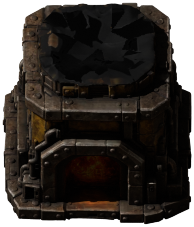
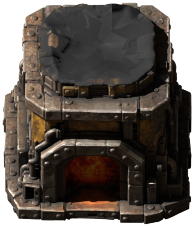
Updated sprites
Re-rendered sprites to be brighter. Uses new icon for item, technology, recipe.

diff --git a/README.md b/README.md
@@ -1,78 +1,26 @@
 # WePlay: Junk Cannon
 
-**Everything must go!** An early-game Factorio defense that turns your trash into ammo.
-
-![WePlay: Junk Cannon](thumbnail.png)
-
-The Junk Cannon is a burner furnace with a big cannon bolted on top. Feed it fuel and junk, and it bakes the junk into shells and fires them at any enemies in range. It's unlocked from the start, so it covers you before you've set up proper ammo production.
-
-**[Download on the Factorio Mod Portal](https://mods.factorio.com/mod/WePlayJunkCannon)**
-
-## Features
-
-- **Unlocked from the start.** Recipe: 8 iron plates, 4 iron gears, 1 stone furnace.
-- **Eats (almost) anything.** Every item from every mod can become a shell: ore, stone, spare belts, old buildings, leftover intermediates...
-- **Burner powered.** Burns coal, wood, solid fuel or any other chemical fuel.
-- **Fuel stays fuel.** Fuel only goes in the burner slot and is never baked into shells, so a mixed chest or belt feeds the cannon properly. Turn on **Fuel can be used as junk** in the startup settings if you want to shoot your fuel too.
-- **Keeps a stockpile.** Stores up to 10 shells, plus one loaded in the cannon. When it's full, the furnace stops with "Output full". Shells that are already baked still fire after the fuel runs out.
-- **Shells stay in the cannon.** Junk Shells are only for the Junk Cannon: inserters and loaders can't take them out, and any you grab by hand go straight back in.
-- **Hand-rendered art.** A 64-direction cannon head with shadows, animated flames in the furnace window while it bakes, a smoke puff when it fires, and its own cannon sound.
-- **Blueprint friendly.** Ghosts from blueprints, copy-paste and undo show the cannon head too.
-- **Mod friendly.** Shell recipes are generated after all other mods load, so modded items work automatically.
-
-## Ideas for feeding it
-
-- **Tap an ore line.** Put an inserter between the cannon and a belt of iron, copper or stone.
-- **Clean out your junk.** Early-game buildings you've replaced, extra stone, spare intermediates.
-- **Mixed chests and belts.** Coal goes to the burner, everything else becomes ammo.
-- **Fulgora scrap.** Turn scrap overflow into firepower.
-
-## Settings
-
-All startup settings:
-
-| Setting | Default | What it does |
-|---|---|---|
-| Shell damage | 5 | Physical damage per shell |
-| Fire cooldown | 120 ticks | Ticks between shots (60 ticks = 1 second) |
-| Cannon range | 13 tiles | How far the cannon can shoot |
-| Seconds to bake one shell | 2 | How long the furnace takes per item |
-| Fuel can be used as junk | Off | Lets fuel be baked into shells |
-
-## Good to know
-
-- The input slot holds one item type at a time.
-- Item quality is ignored, so a legendary item makes a normal shell.
-- Mining a Junk Cannon deletes any shells inside it. You get the cannon back, but not the ammo.
-- Area damage (spitter acid, explosions) can hit a cannon twice: once directly and once through its hidden turret.
-- Requires Factorio 2.1.
+A cozy early-game turret for Factorio 2.1. The Junk Cannon is a burner furnace with a big cannon bolted on top. Feed it fuel and *anything else*, from any mod, and it bakes the junk into shells and shoots them at enemies.
 
 ## How it works
 
-The cannon is two entities: a furnace that you see and interact with, and a hidden turret on top of it.
+- Unlocked from the start. Recipe: 8 iron plates, 4 iron gears, 1 stone furnace.
+- Fuel goes in the burner slot. Any other item goes in the input slot and becomes one Junk Shell (2 seconds each by default).
+- Holds 10 shells in its output plus 1 in the cannon. When it's full, the furnace stops with "Output full".
+- Shells that are already baked still fire when the fuel runs out.
+- Damage, fire rate, range and bake time are startup settings.
 
-- `data-final-fixes.lua` generates a hidden "1 item → 1 junk shell" recipe for every item in the game, skipping burner fuels unless the setting is on.
-- `control.lua` pairs each furnace with its turret, moves shells from the furnace output into the turret one at a time, and passes damage taken by the turret on to the furnace, so the cannon can be destroyed. It also keeps Junk Shells out of player inventories and draws the cannon head on ghosts.
-- `graphics/sprites.lua` holds the sprite sizes and shifts for the rendered sheets, so `data.lua` never needs editing when the art is re-rendered.
+## Known issues and limits
 
-## Installation
+- Fuel (coal, wood, solid fuel...) only goes in the burner slot, so a mixed chest or belt feeds fuel and junk correctly. Turn on the "Fuel can be used as junk" startup setting to bake fuel into shells too.
+- The input slot holds one item type at a time.
+- Quality is ignored, so a legendary item makes a normal shell. Valuable items are not protected.
+- Area damage (spitter acid, explosions) can hit the furnace twice: once directly and once through the hidden cannon.
 
-Install it from the in-game mod manager: search for **Junk Cannon**. Or download it from the [mod portal](https://mods.factorio.com/mod/WePlayJunkCannon).
+## Replacing the art
 
-To run it from source, copy this repo into your Factorio `mods` folder as `WePlayJunkCannon`.
+Render the head (64 directions, north first, clockwise), the base, and a shadow pass for each, then run `pack_sheets.py`. It writes the packed sheets plus `graphics/sprites.lua`, which `data.lua` reads for every size and shift, so no Lua editing is needed.
 
-## Upgrading from 0.1.x
+## Upgrading from 0.1.x (weplay-junk-cannon)
 
-Versions before 0.2.1 were named `weplay-junk-cannon`. Back up your save first. Old chest-style cannons become furnaces, and any extra stacks they held are spilled on the ground, never deleted.
-
-## Art
-
-The cannon was modeled and rendered in Blender by the author.
-
-## More WePlay mods
-
-See all of them on the [mod portal](https://mods.factorio.com/user/afewvowels).
-
-## License
-
-Released under the [Unlicense](LICENSE): the code is in the public domain, so do whatever you like with it.
+Back up your save first. Old chest-style cannons become furnaces. Extra stacks they held are spilled on the ground, never deleted. The `weplay-*` legacy prototypes exist only for this migration.
